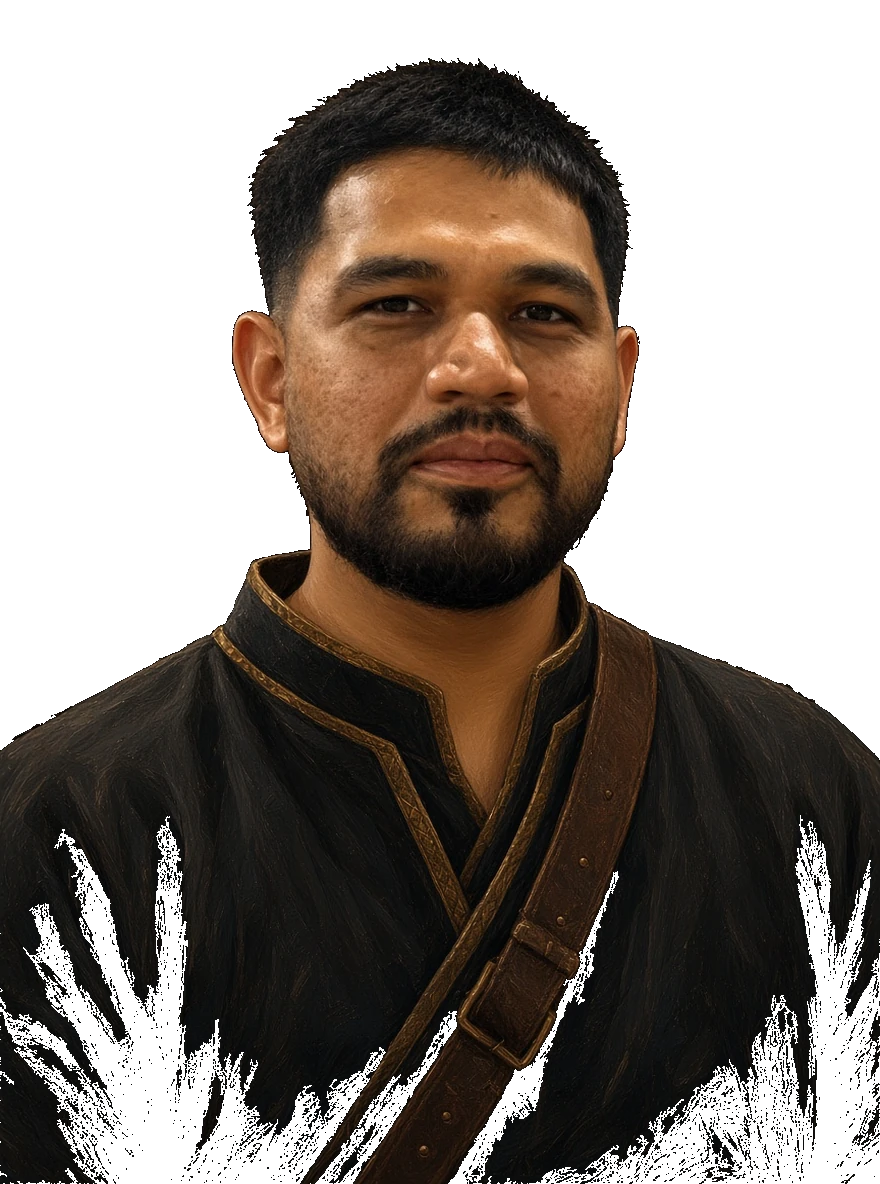
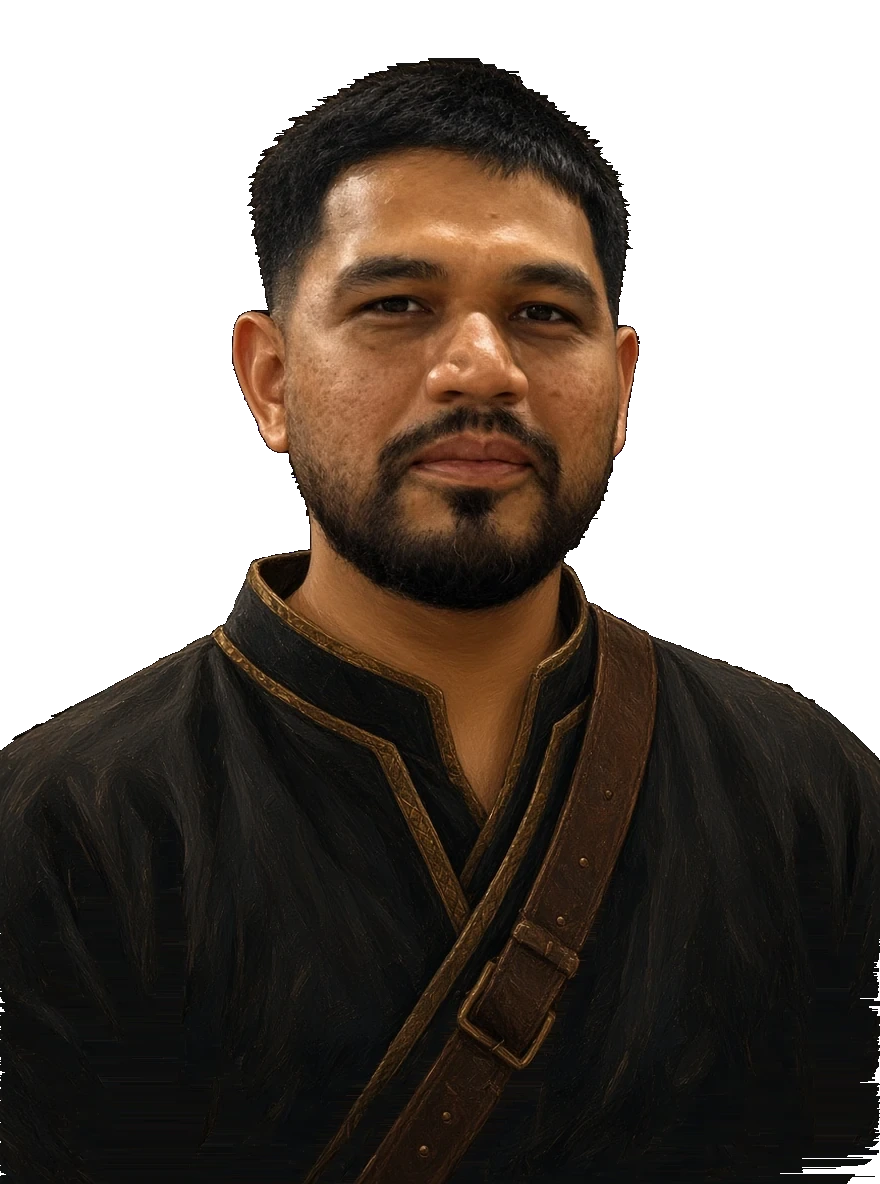
Add a customer-edition account for each staff member and repair the laughing customer portrait.

diff --git a/frontend/src/utils/playerName.ts b/frontend/src/utils/playerName.ts
@@ -4,13 +4,16 @@ export function formatPlayerName(name?: string | null): string {
   if (!raw) return ''
   if (/^玩家\d*$/.test(raw)) return raw
   return raw.replace(/[A-Za-z][A-Za-z']*/g, (word) => (
-    word.charAt(0).toUpperCase() + word.slice(1).toLowerCase()
+    word.toUpperCase() === 'HIH' ? 'HIH' : word.charAt(0).toUpperCase() + word.slice(1).toLowerCase()
   ))
 }
 
 /** 用户名：首字母大写，其余小写。ethan / ETHAN → Ethan */
 export function capitalizeUsername(name?: string | null): string {
-  const raw = String(name ?? '').trim()
+  const raw = String(name ?? '').trim().replace(/\s+/g, ' ')
   if (!raw) return ''
-  return raw.charAt(0).toUpperCase() + raw.slice(1).toLowerCase()
+  return raw.split(' ').map((part) => {
+    if (!part) return ''
+    return part.toLowerCase() === 'hih' ? 'HIH' : part.charAt(0).toUpperCase() + part.slice(1).toLowerCase()
+  }).join(' ')
 }

diff --git a/backend/wa-demo-service/src/main/java/cc/shturl/wa/demo/config/PublicMirrorAccountBootstrap.java b/backend/wa-demo-service/src/main/java/cc/shturl/wa/demo/config/PublicMirrorAccountBootstrap.java
@@ -1,0 +1,134 @@
+package cc.shturl.wa.demo.config;
+
+import cc.shturl.wa.demo.service.PublicAccountNames;
+import org.slf4j.Logger;
+import org.slf4j.LoggerFactory;
+import org.springframework.boot.ApplicationArguments;
+import org.springframework.boot.ApplicationRunner;
+import org.springframework.core.annotation.Order;
+import org.springframework.jdbc.core.JdbcTemplate;
+import org.springframework.stereotype.Component;
+
+import java.util.List;
+
+/**
+ * 每个内部版账号对应一个对外版账号，名字是 HIH 加原来的名字。密码与头像沿用本人。
+ */
+@Component
+@Order(71)
+public class PublicMirrorAccountBootstrap implements ApplicationRunner {
+    private static final Logger log = LoggerFactory.getLogger(PublicMirrorAccountBootstrap.class);
+
+    private final JdbcTemplate jdbcTemplate;
+
+    public PublicMirrorAccountBootstrap(JdbcTemplate jdbcTemplate) {
+        this.jdbcTemplate = jdbcTemplate;
+    }
+
+    @Override
+    public void run(ApplicationArguments args) {
+        if (!tableExists("users") || !tableExists("user_profiles") || !columnExists("users", "audience")) {
+            return;
+        }
+        List<InternalUser> internals = jdbcTemplate.query("""
+                SELECT u.id, u.username, u.password_hash, u.avatar_url, p.display_name
+                FROM users u
+                LEFT JOIN user_profiles p ON p.user_id = u.id
+                WHERE u.status = 1
+                  AND UPPER(IFNULL(u.audience, 'INTERNAL')) = 'INTERNAL'
+                ORDER BY u.id
+                """, (rs, rowNum) -> new InternalUser(
+                rs.getLong("id"),
+                rs.getString("username"),
+                rs.getString("password_hash"),
+                rs.getString("avatar_url"),
+                rs.getString("display_name")));
+        int created = 0;
+        for (InternalUser user : internals) {
+            if (user.passwordHash == null || user.passwordHash.isBlank()) {
+                continue;
+            }
+            String mirror = PublicAccountNames.mirrorName(user.username, user.displayName);
+            if (mirror.length() < 4 || mirror.length() > 50) {
+                log.warn("Skip public mirror for user id {} because the name does not fit.", user.id);
+                continue;
+            }
+            Long newId = jdbcTemplate.query("""
+                    SELECT id FROM users WHERE username = ?
+                    """, (rs, rowNum) -> rs.getLong("id"), mirror).stream().findFirst().orElse(null);
+            if (newId == null) {
+                jdbcTemplate.update("""
+                        INSERT INTO users (username, password_hash, avatar_url, status, audience, created_at, updated_at)
+                        VALUES (?, ?, ?, 1, 'PUBLIC', NOW(), NOW())
+                        """, mirror, user.passwordHash, user.avatarUrl);
+                newId = jdbcTemplate.queryForObject(
+                        "SELECT id FROM users WHERE username = ?",
+                        Long.class,
+                        mirror);
+                created++;
+                log.info("Created public account {}.", mirror);
+            }
+            if (newId == null) {
+                continue;
+            }
+            jdbcTemplate.update("""
+                    INSERT INTO user_profiles (user_id, display_name, level, exp, win_count, lose_count, draw_count, money, weekly_money, created_at, updated_at)
+                    SELECT ?, ?, 1, 0, 0, 0, 0, 0, 0, NOW(), NOW()
+                    FROM DUAL
+                    WHERE NOT EXISTS (SELECT 1 FROM user_profiles WHERE user_id = ?)
+                    """, newId, mirror, newId);
+        }
+        int linked = linkPublicFriends();
+        if (created > 0 || linked > 0) {
+            log.info("Public mirror accounts created {}, friend rows added {}.", created, linked);
+        }
+    }
+
+    private int linkPublicFriends() {
+        if (!tableExists("friendships")) {
+            return 0;
+        }
+        List<Long> publicIds = jdbcTemplate.query("""
+                SELECT id FROM users
+                WHERE status = 1 AND UPPER(IFNULL(audience, 'INTERNAL')) = 'PUBLIC'
+                """, (rs, rowNum) -> rs.getLong("id"));
+        int linked = 0;
+        for (Long userId : publicIds) {
+            Integer inserted = jdbcTemplate.update("""
+                    INSERT INTO friendships (user_id, friend_id, status, created_at, updated_at)
+                    SELECT ?, u.id, 1, NOW(), NOW()
+                    FROM users u
+                    WHERE u.id <> ?
+                      AND u.status = 1
+                      AND UPPER(IFNULL(u.audience, 'INTERNAL')) = 'PUBLIC'
+                      AND NOT EXISTS (
+                        SELECT 1 FROM friendships f
+                        WHERE (f.user_id = ? AND f.friend_id = u.id)
+                           OR (f.user_id = u.id AND f.friend_id = ?)
+                      )
+                    """, userId, userId, userId, userId);
+            linked += inserted == null ? 0 : inserted;
+        }
+        return linked;
+    }
+
+    private boolean tableExists(String tableName) {
+        Integer count = jdbcTemplate.queryForObject(
+                "SELECT COUNT(*) FROM information_schema.tables WHERE table_schema = DATABASE() AND table_name = ?",
+                Integer.class,
+                tableName);
+        return count != null && count > 0;
+    }
+
+    private boolean columnExists(String tableName, String columnName) {
+        Integer count = jdbcTemplate.queryForObject(
+                "SELECT COUNT(*) FROM information_schema.columns WHERE table_schema = DATABASE() AND table_name = ? AND column_name = ?",
+                Integer.class,
+                tableName,
+                columnName);
+        return count != null && count > 0;
+    }
+
+    private record InternalUser(long id, String username, String passwordHash, String avatarUrl, String displayName) {
+    }
+}

diff --git a/backend/wa-demo-service/src/main/java/cc/shturl/wa/demo/service/PublicAccountNames.java b/backend/wa-demo-service/src/main/java/cc/shturl/wa/demo/service/PublicAccountNames.java
@@ -1,0 +1,50 @@
+package cc.shturl.wa.demo.service;
+
+import java.util.Locale;
+
+/** 对外版镜像账号名：HIH 加内部版名字，例如 HIH Ethan。 */
+public final class PublicAccountNames {
+    private PublicAccountNames() {
+    }
+
+    public static String mirrorName(String username, String displayName) {
+        String source = username == null || username.isBlank() ? displayName : username;
+        String pretty = titleCase(source);
+        if (pretty.isEmpty()) {
+            return "";
+        }
+        if (pretty.regionMatches(true, 0, "HIH ", 0, 4)) {
+            return pretty;
+        }
+        return "HIH " + pretty;
+    }
+
+    public static String titleCase(String raw) {
+        if (raw == null) {
+            return "";
+        }
+        String trimmed = raw.trim().replaceAll("\\s+", " ");
+        if (trimmed.isEmpty()) {
+            return "";
+        }
+        StringBuilder out = new StringBuilder();
+        for (String part : trimmed.split(" ")) {
+            if (part.isEmpty()) {
+                continue;
+            }
+            if (out.length() > 0) {
+                out.append(' ');
+            }
+            if (part.equalsIgnoreCase("hih")) {
+                out.append("HIH");
+                continue;
+            }
+            String lower = part.toLowerCase(Locale.ROOT);
+            out.append(Character.toUpperCase(lower.charAt(0)));
+            if (lower.length() > 1) {
+                out.append(lower.substring(1));
+            }
+        }
+        return out.toString();
+    }
+}

diff --git a/backend/wa-demo-service/src/main/java/cc/shturl/wa/demo/service/impl/AuthServiceImpl.java b/backend/wa-demo-service/src/main/java/cc/shturl/wa/demo/service/impl/AuthServiceImpl.java
@@ -17,6 +17,7 @@ import cc.shturl.wa.demo.mapper.UserMapper;
 import cc.shturl.wa.demo.mapper.UserProfileMapper;
 import cc.shturl.wa.demo.service.AuthService;
 import cc.shturl.wa.demo.service.GameEdition;
+import cc.shturl.wa.demo.service.PublicAccountNames;
 import cc.shturl.wa.demo.service.GameEditionService;
 import cc.shturl.wa.demo.service.TaskService;
 import cc.shturl.wa.demo.service.TokenService;
@@ -36,7 +37,6 @@ import org.springframework.web.context.request.ServletRequestAttributes;
 
 import java.time.LocalDateTime;
 import java.util.List;
-import java.util.Locale;
 
 @Service
 @RequiredArgsConstructor
@@ -307,7 +307,6 @@ public class AuthServiceImpl implements AuthService {
         if (trimmed.isEmpty()) {
             return "";
         }
-        String lower = trimmed.toLowerCase(Locale.ROOT);
-        return Character.toUpperCase(lower.charAt(0)) + lower.substring(1);
+        return PublicAccountNames.titleCase(trimmed);
     }
 }

diff --git a/backend/wa-demo-service/src/test/java/cc/shturl/wa/demo/service/PublicAccountNamesTest.java b/backend/wa-demo-service/src/test/java/cc/shturl/wa/demo/service/PublicAccountNamesTest.java
@@ -1,0 +1,20 @@
+package cc.shturl.wa.demo.service;
+
+import org.junit.jupiter.api.Test;
+
+import static org.assertj.core.api.Assertions.assertThat;
+
+class PublicAccountNamesTest {
+
+    @Test
+    void prefixesTheStaffName() {
+        assertThat(PublicAccountNames.mirrorName("ETHAN", "ETHAN")).isEqualTo("HIH Ethan");
+        assertThat(PublicAccountNames.mirrorName("Sean", "Sean")).isEqualTo("HIH Sean");
+        assertThat(PublicAccountNames.mirrorName("HARRISON", "HARRSION")).isEqualTo("HIH Harrison");
+    }
+
+    @Test
+    void doesNotPrefixTwice() {
+        assertThat(PublicAccountNames.mirrorName("HIH Ethan", "HIH Ethan")).isEqualTo("HIH Ethan");
+    }
+}
